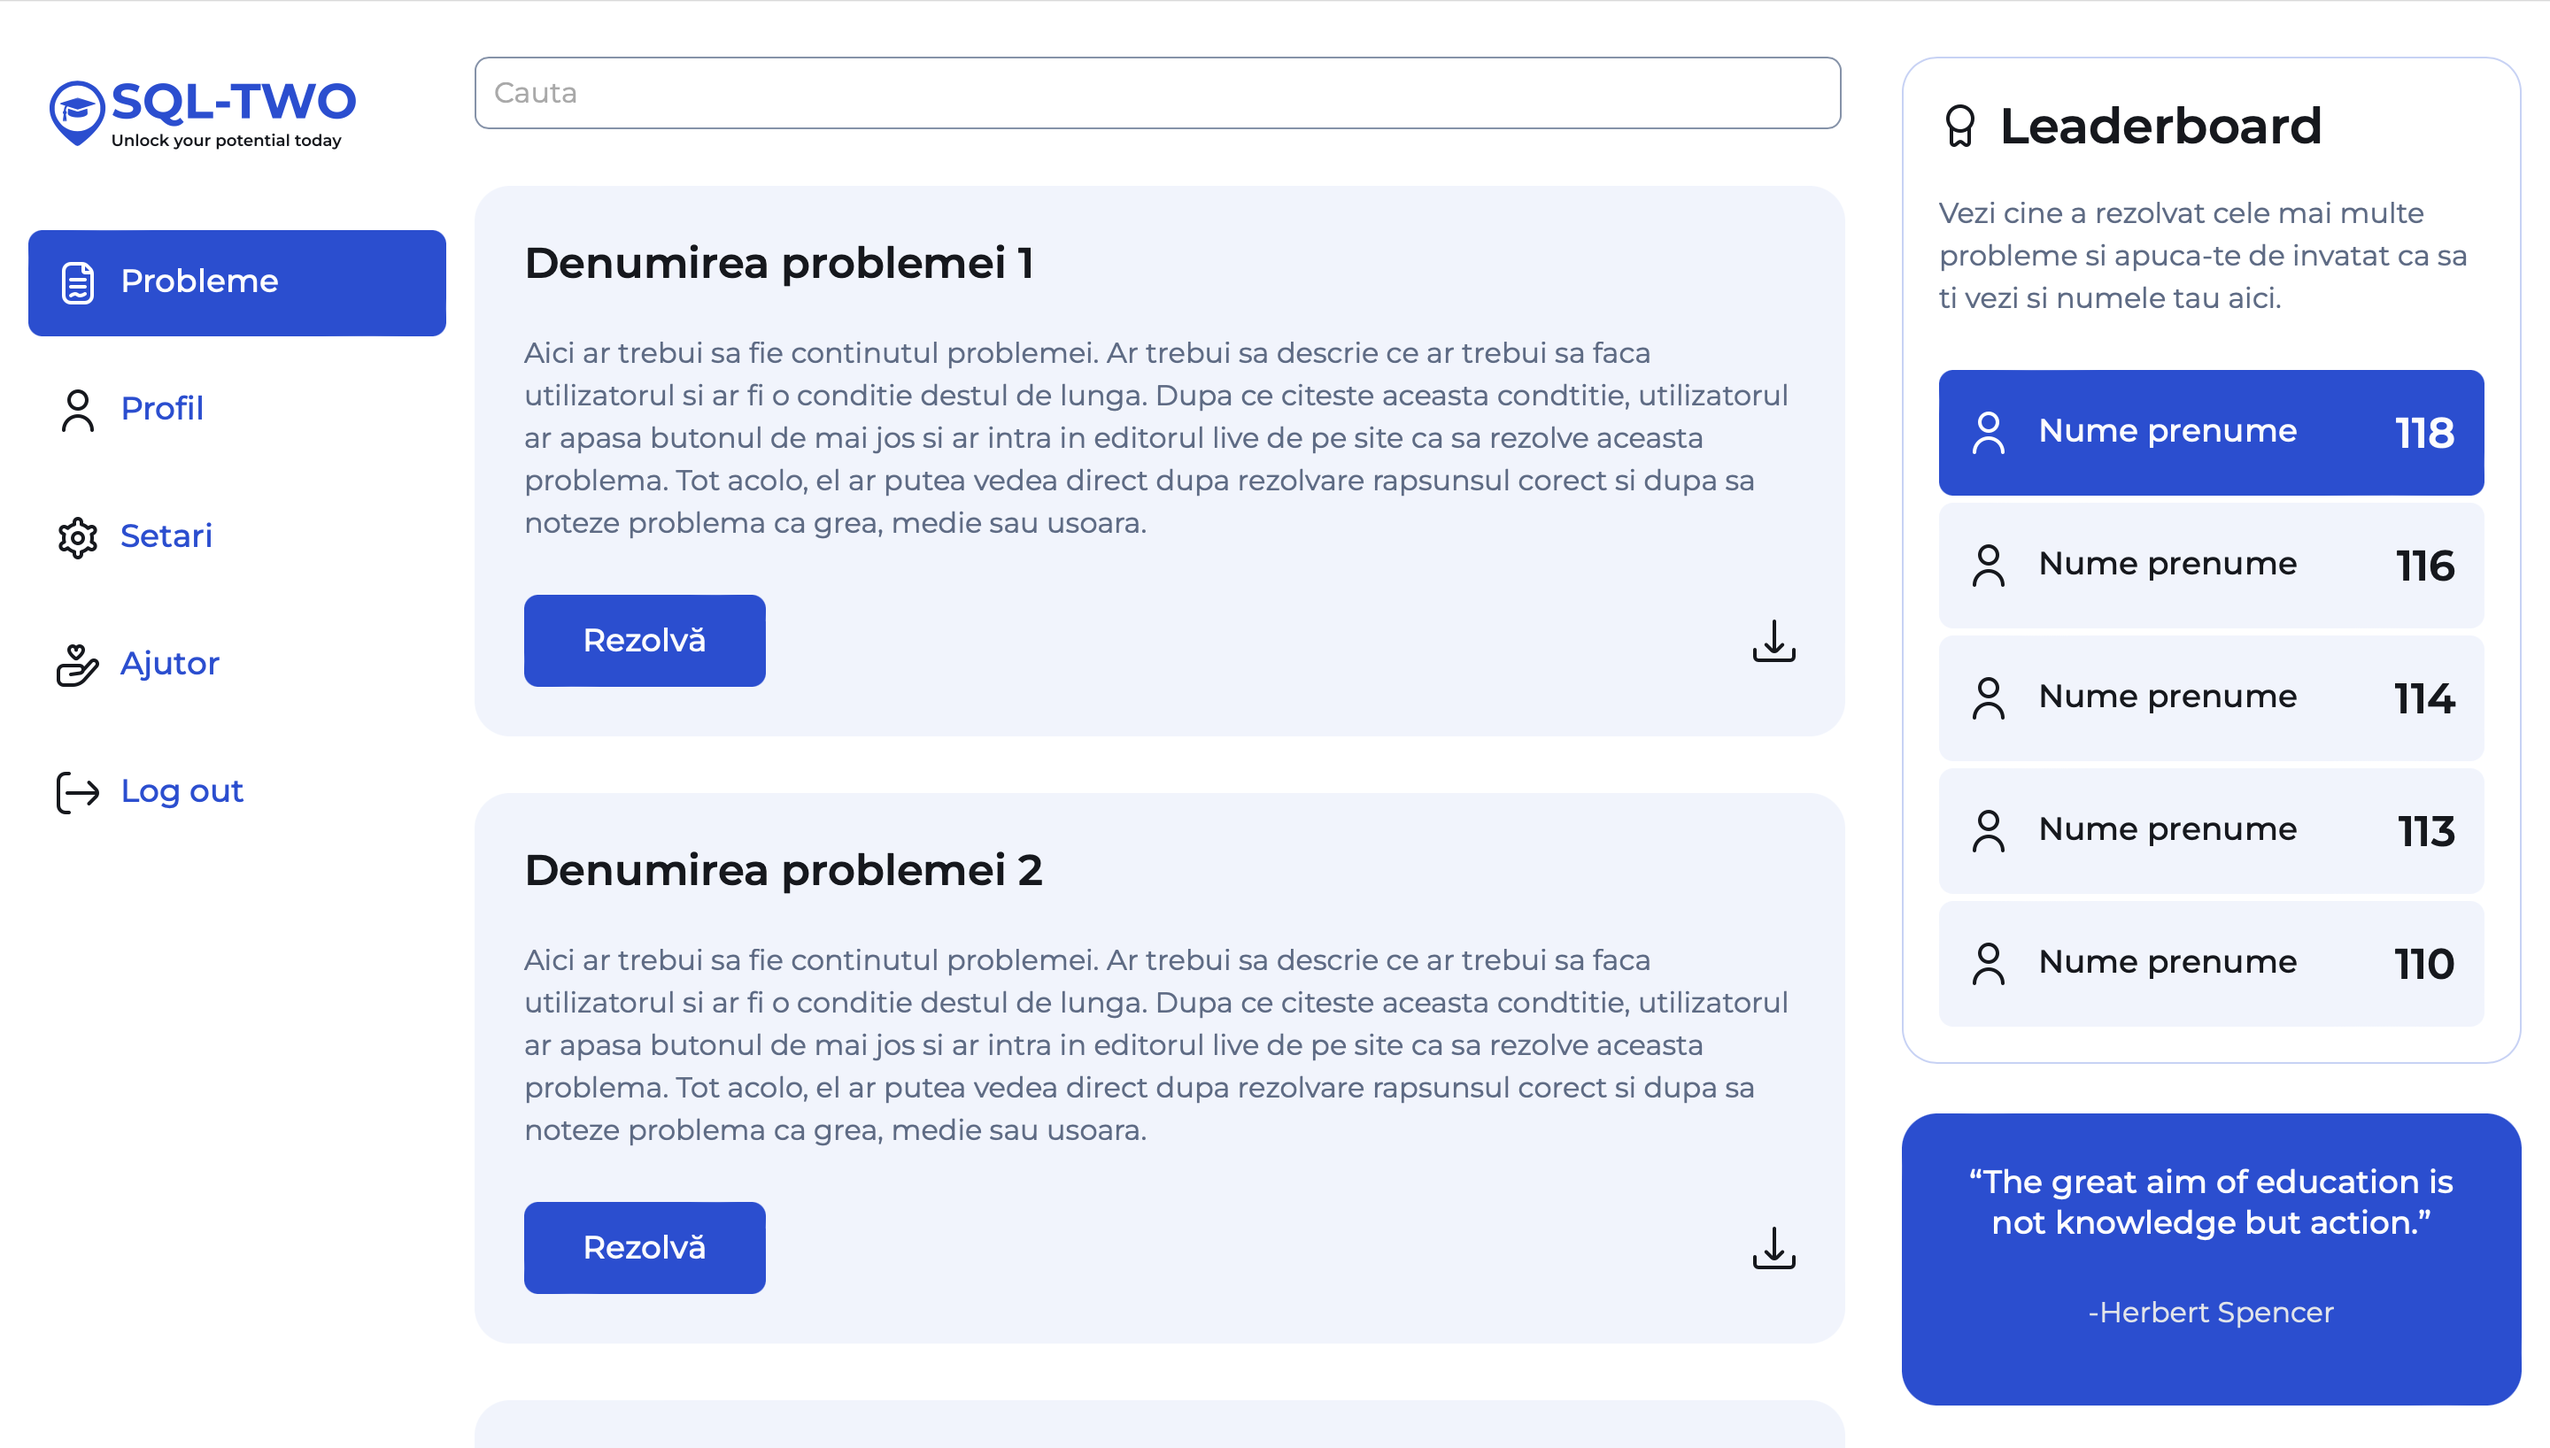
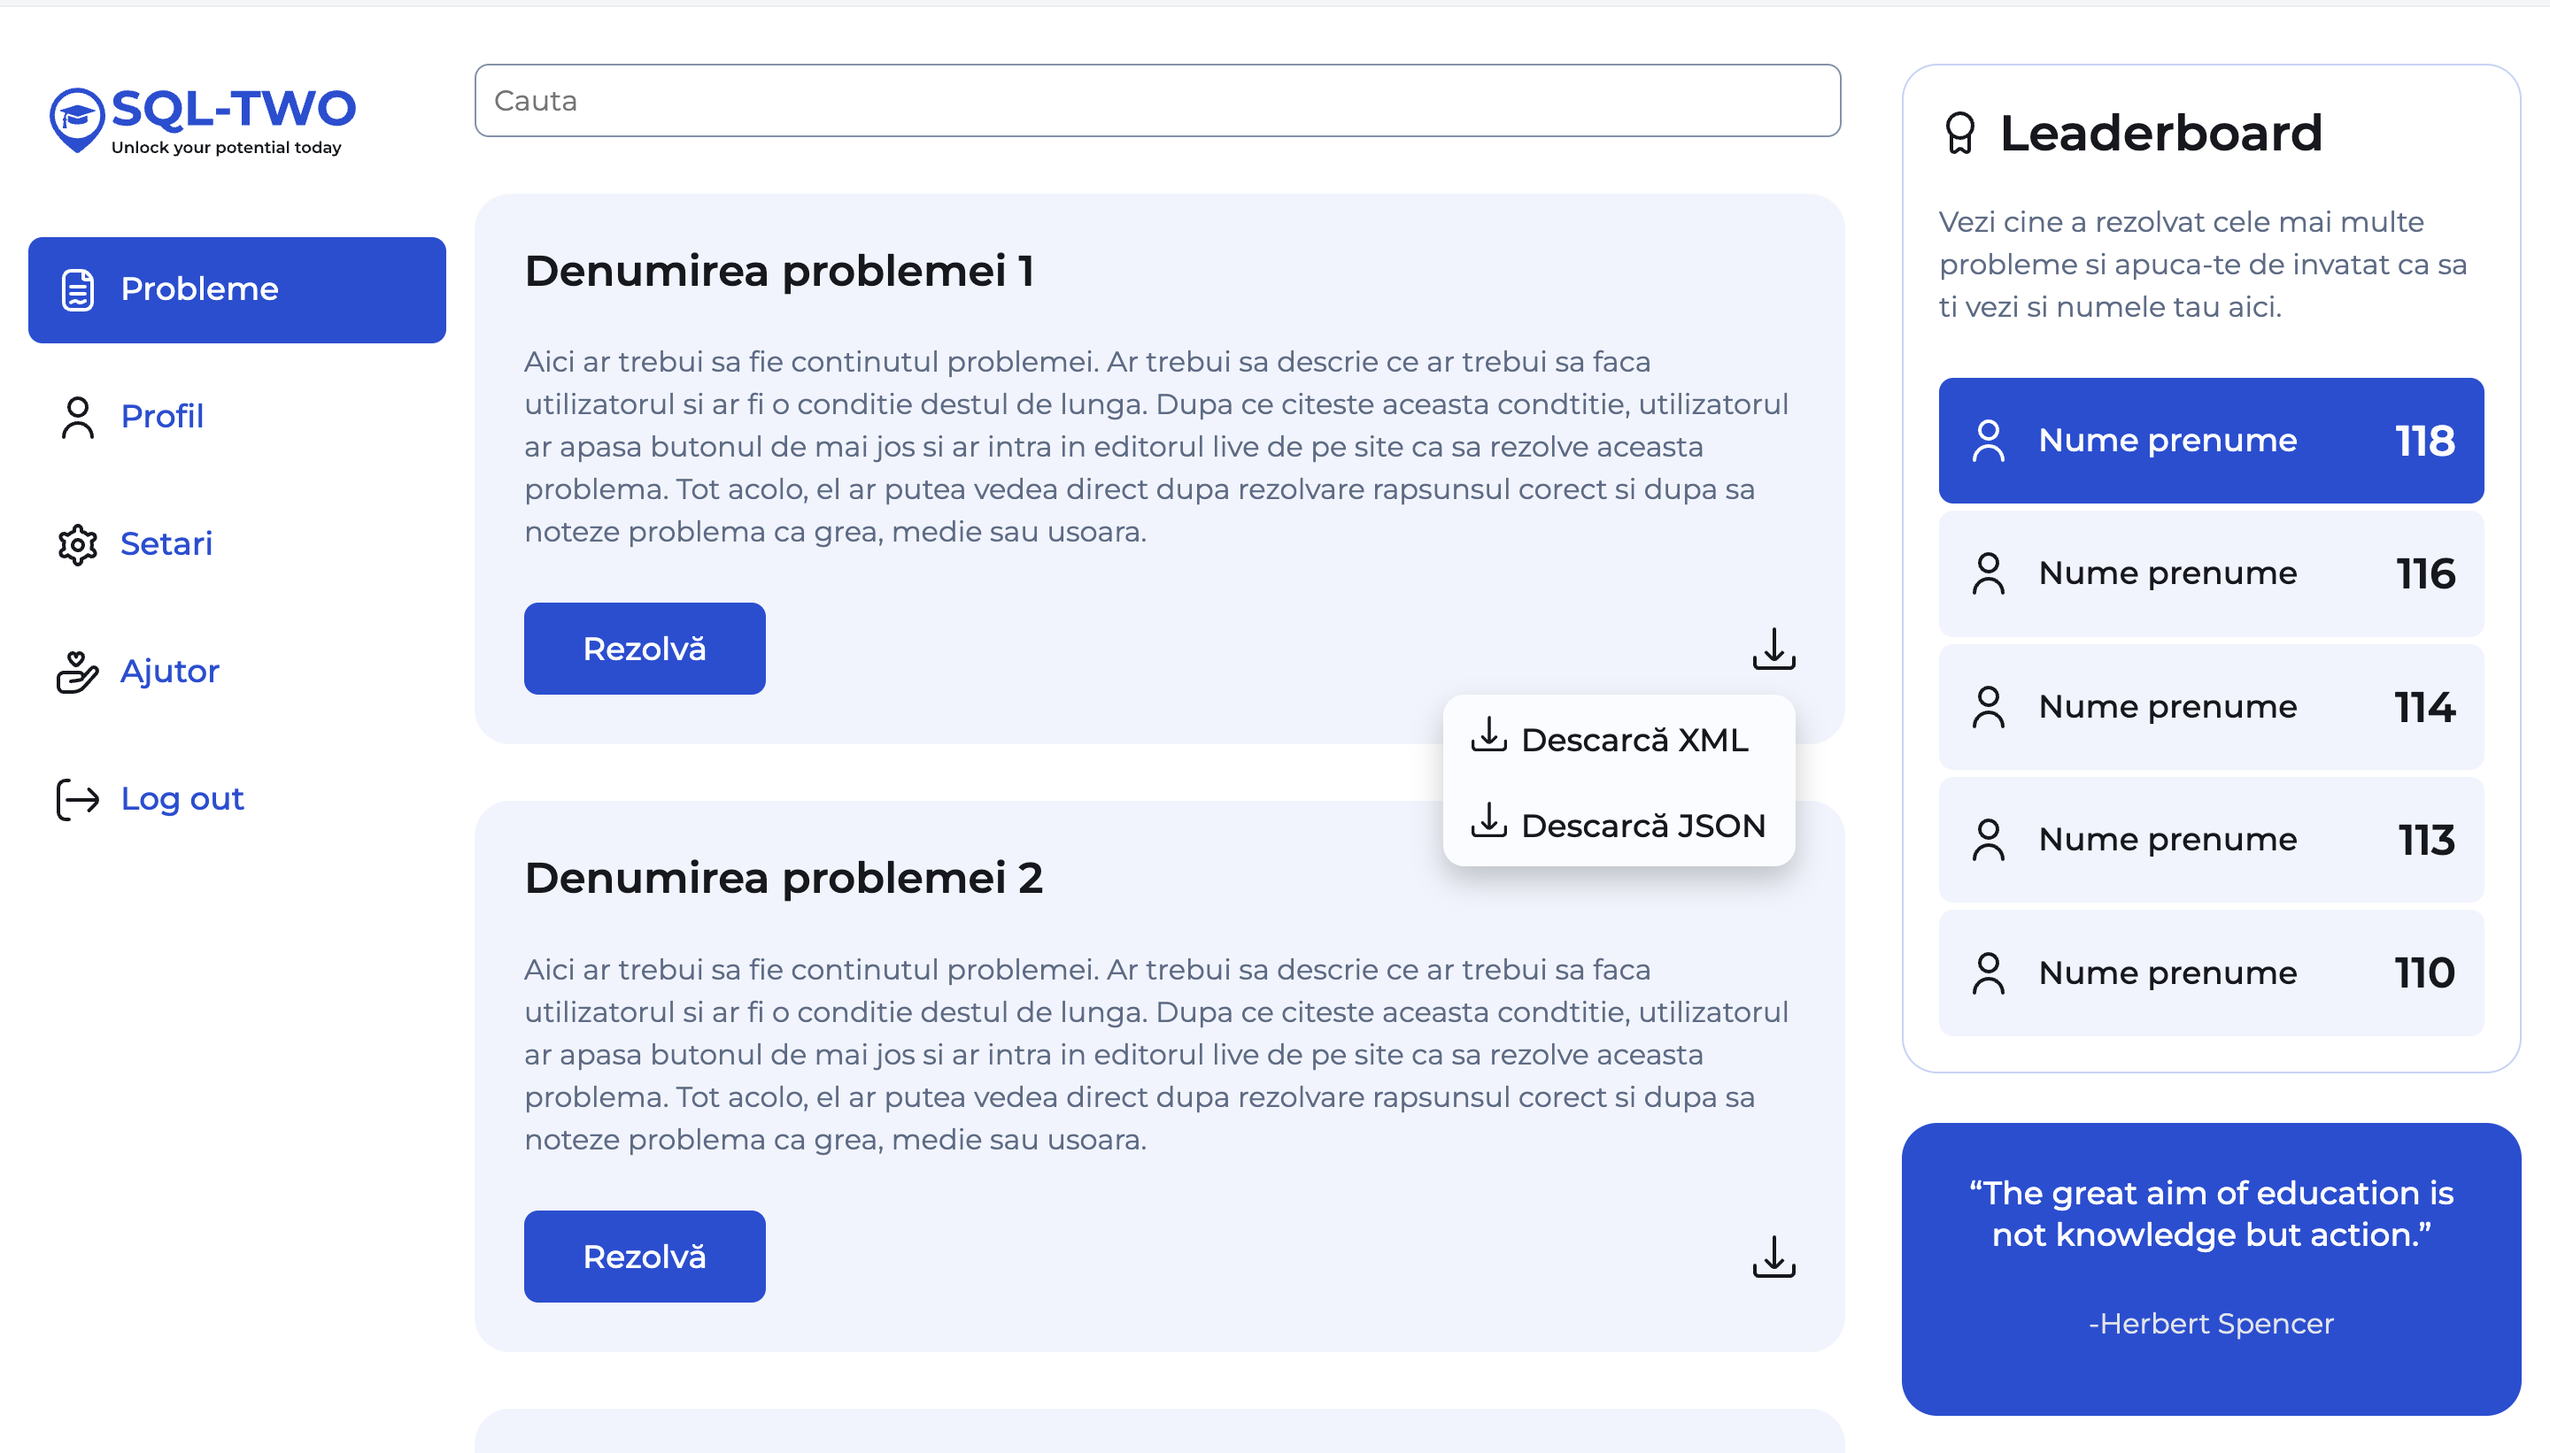
Rectificari la documentatie

diff --git a/DOCUMENTATIE SQLTWO/Scholary.html b/DOCUMENTATIE SQLTWO/Scholary.html
@@ -126,19 +126,28 @@
             cine se află în spatele ei. Sql-Two îți oferă o experiență interactivă, permițându-ți să accesezi paginile
             de login și sign-up într-un mod simplu și rapid.
         </p>
-        <img src="/DOCUMENTATIE%20SQLTWO/Imgini-documentatie/Landing-page.png" alt="Landing-page">
+        <img src="/DOCUMENTATIE%20SQLTWO/Imgini-documentatie/Landing-page-record-ezgif.com-video-to-gif-converter (1).gif" alt="Landing-page">
 
         <h3>5.4. Probleme</h3>
         <p>
-            Pe aceasta pagina explorează o diversitate de probleme captivante pregătite cu grijă pentru tine. Pe
-            platforma noastră, poți
-            vizualiza și rezolva aceste probleme direct în editorul integrat, verificând imediat corectitudinea
-            soluțiilor tale. De asemenea, ai posibilitatea să descarci problemele în format XML sau JSON pentru a le
-            rezolva ulterior offline.
+            Pagina Probleme oferă o colecție captivantă de provocări pregătite cu grijă pentru utilizatori. Fiecare
+            problemă este disponibilă pentru descărcare în format XML sau JSON, oferind posibilitatea de a accesa și de
+            a rezolva problemele offline sau de a le împărtăși cu alți utilizatori. În plus, utilizatorii pot verifica
+            și testa soluțiile direct în editorul integrat prin apsarea butonului "Rezolvă", asigurându-se că
+            înțelegerea și aplicarea conceptelor SQL
+            sunt corecte și eficiente.
         </p>
         <img src="/DOCUMENTATIE%20SQLTWO/Imgini-documentatie/Probleme-page.png" alt="Probleme-page">
-        <img src="/DOCUMENTATIE%20SQLTWO/Imgini-documentatie/Editor-page.png" alt="Editor-page">
-        <h3>5.5. Profile</h3>
+        <h3>5.5. Editor</h3>
+        <p>Pagina Editor oferă un mediu interactiv și dinamic pentru rezolvarea problemelor SQL. Utilizatorii sunt
+            invitați să își testeze cunoștințele și abilitățile direct într-un editor live. Aici pot verifica și evalua
+            soluțiile, având posibilitatea de a nota dificultatea fiecărei probleme rezolvate. Interfața intuitivă și
+            funcționalitățile avansate fac ca procesul de rezolvare să fie simplu și eficient, oferind o experiență de
+            învățare captivantă și interactivă.
+        </p>
+        <img src="/DOCUMENTATIE%20SQLTWO/Imgini-documentatie/Editor-rezolva.png" alt="Editor-rezolva">
+        <img src="/DOCUMENTATIE%20SQLTWO/Imgini-documentatie/Editor-verifica.png" alt="Editor-verifica">
+        <h3>5.6. Profile</h3>
         <p>
             Pagina profilului utilizatorului oferă o interfață intuitivă pentru gestionarea și monitorizarea progresului
             utilizatorilor în rezolvarea problemelor legate de limbajul SQL. Utilizatorii pot naviga ușor prin meniul
@@ -150,7 +159,7 @@
         </p>
         <img src="/DOCUMENTATIE%20SQLTWO/Imgini-documentatie/Profile-page.png" alt="Profile-page">
 
-        <h3>5.6. Setari</h3>
+        <h3>5.7. Setari</h3>
         <p>
             Pagina setări permite utilizatorilor să-și gestioneze datele personale și să efectueze schimburi de parole
             în mod eficient și securizat. Aici, utilizatorii pot actualiza și modifica detaliile personale, cum ar fi
@@ -160,7 +169,7 @@
             în condiții de siguranță.
         </p>
 
-        <h3>5.7. Ajutor</h3>
+        <h3>5.8. Ajutor</h3>
         <p>
             Pagina oferă utilizatorilor acces la informații esențiale despre utilizarea eficientă a platformei, inclusiv
             detalii despre structura bazei de date și modul în care interacționează cu aceasta. De asemenea, furnizează
@@ -169,7 +178,7 @@
             astfel experiența și oferindu-le instrumentele necesare pentru a profita la maximum de serviciile oferite.
         </p>
 
-        <h3>5.8. Admin</h3>
+        <h3>5.9. Admin</h3>
         <p>
             Pagina de admin reprezintă o componentă crucială a aplicației noastre web, oferind o interfață securizată și
             restricționată pentru administratori.
